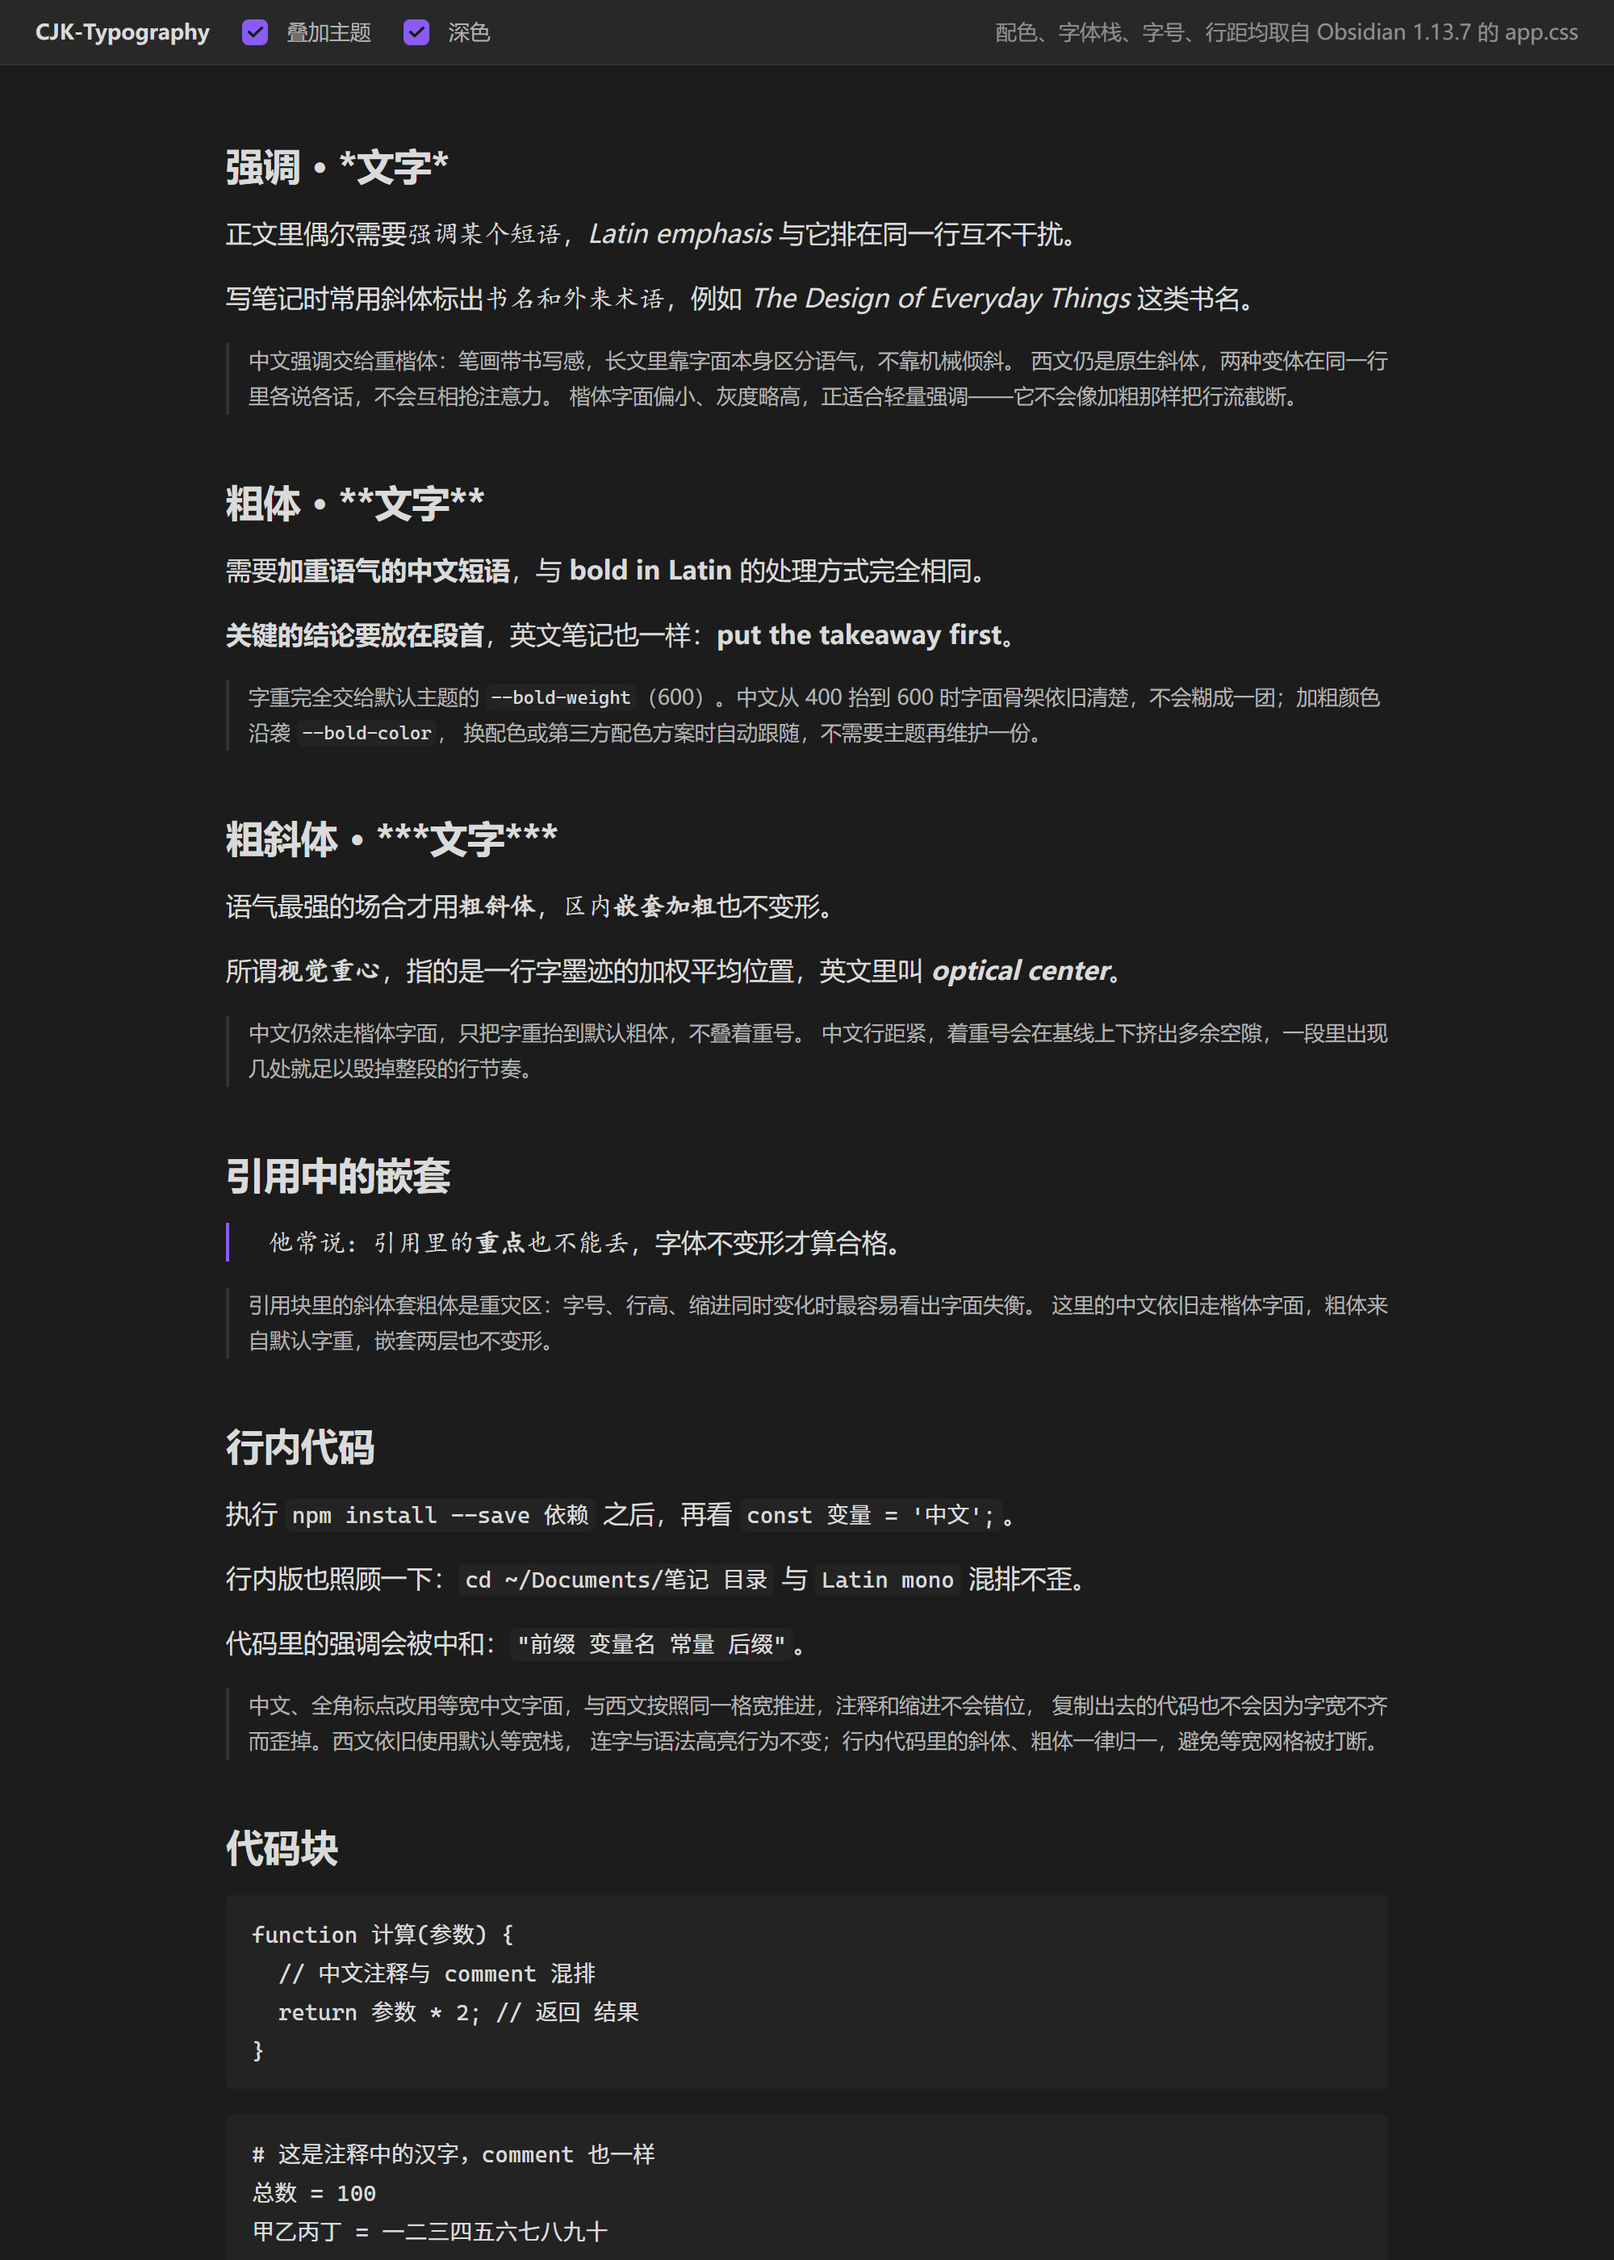
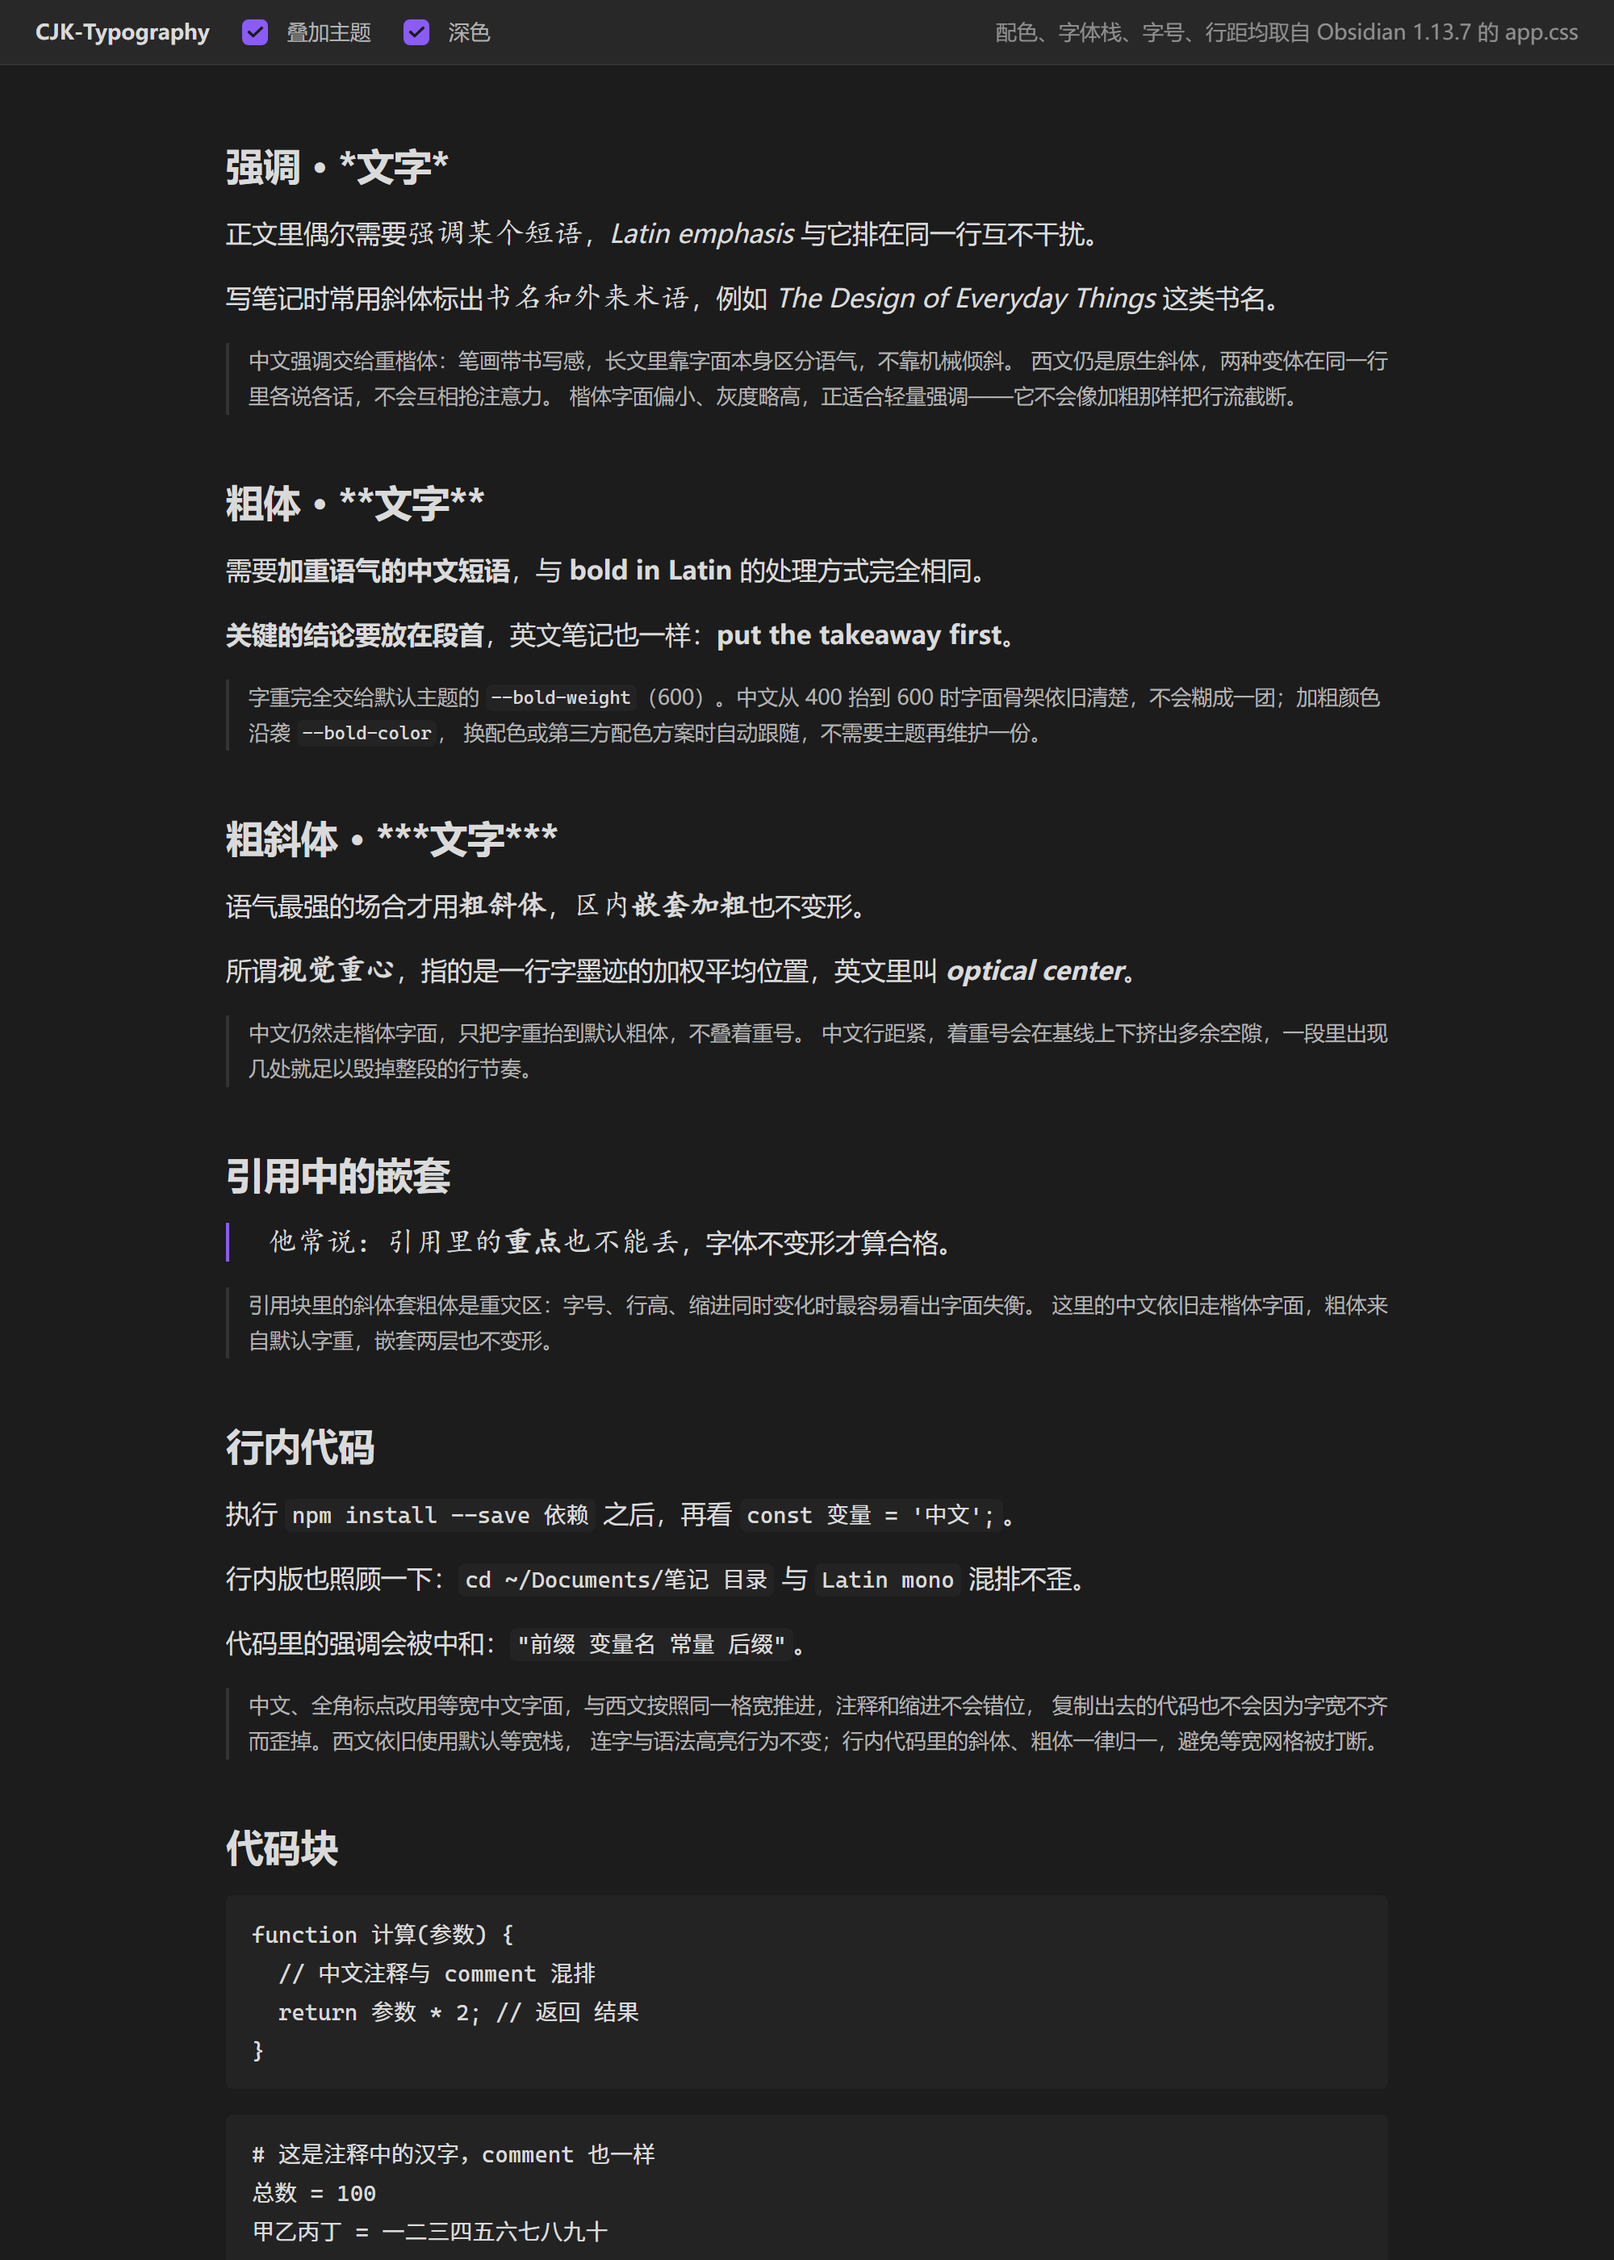
fix: size-adjust 定标 114%（囗框多字号回归），放弃垂直偏移
采纳四边线性拟合建议：囗框墨迹沿在 12-96px 共 11 个字号下回归，
雅黑斜率 0.890、楷体 0.777、截距均≈0（纯比例缩放），
size-adjust = 114% 使框高一致；阅读区间 12-24px 最小二乘 115%。
垂直方向：真实排版共享基线，字形相对基线位置是轮廓固有的
（GB 字表均值偏差 0.4px@16px），孤立行盒测量属行盒伪差，
不加 vertical-align。

diff --git a/theme.css b/theme.css
@@ -28,10 +28,12 @@
      否则浏览器会拿常规字面做机械倾斜（伪斜体）。 */
   font-style: italic;
   font-weight: 400;
-  /* 不做 size-adjust：用「囗」(U+56D7) 探针实测，楷体与雅黑的设计框
-     本来就一致（框高 66 vs 64、宽均为整 em、框中心差 1px）。
-     楷体墨迹覆盖率低是笔画风格，不是框位错位；墨迹边界对齐会被
-     出框笔画（长撇、点尾）带偏，已弃用。 */
+  /* 字身框对齐：囗(U+56D7) 框墨迹沿对字号做线性回归（截距≈0），
+     雅黑斜率 0.890、楷体斜率 0.777，比值 114.5% 使框高一致。
+     垂直方向不做修正：真实排版共享基线，字形相对基线的位置是
+     轮廓固有的（GB 字表实测均值偏差仅 0.4px@16px）；孤立行盒的
+     基线放置差异是行盒伪差，不修正。 */
+  size-adjust: 114%;
 }
 
 em,
